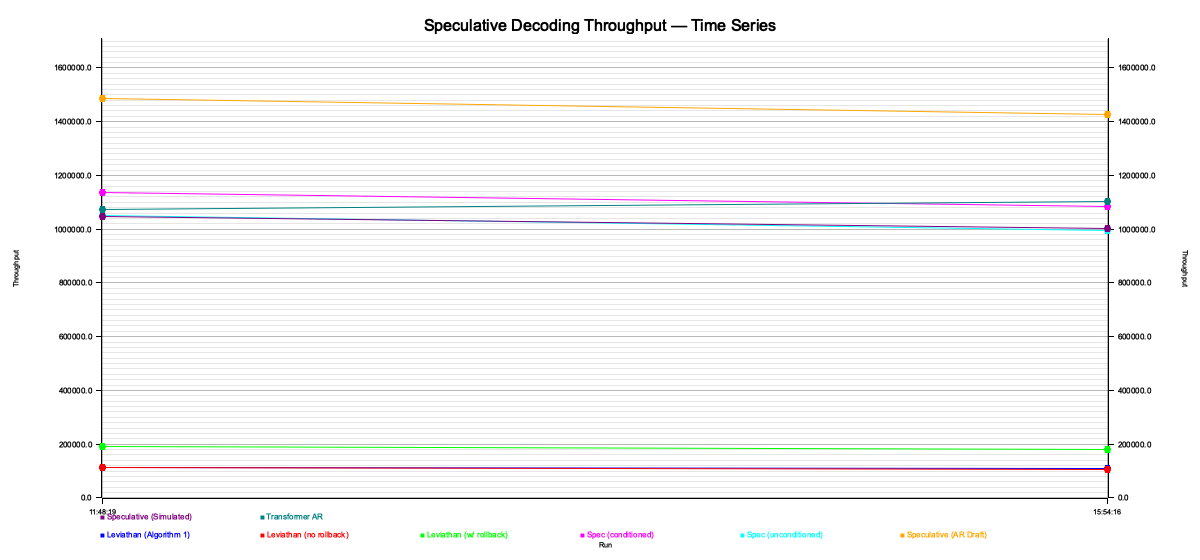
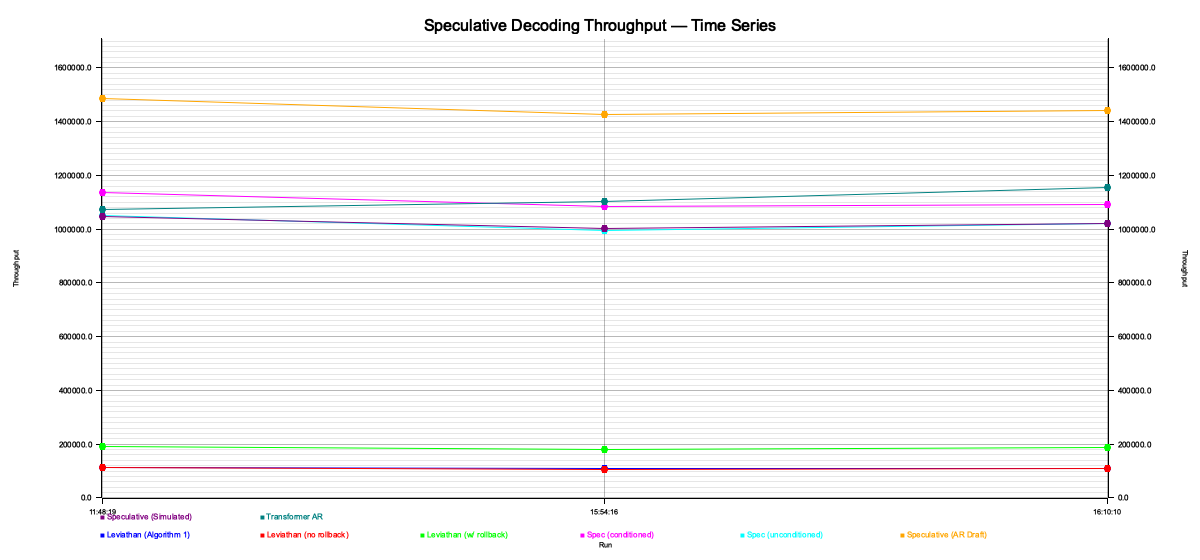
feat(bench): integrate TQ-3bit and PFlash block_select into main benchmark pipeline
Plan 043/044 benchmarks were isolated in tests/ with different CSV schemas,
never tracked in timeseries. Now they run with every cargo run --release:

- TQ-3bit store+dequant: 1.39M ops/s (compression ratio in avg_accept_len)
- PFlash block_select (1024 blocks): 1.13M ops/s

diff --git a/src/benchmark.rs b/src/benchmark.rs
@@ -1,13 +1,15 @@
+use crate::speculative::types::FlashPrefillConfig;
 use crate::speculative::{
     AttentionScorer, NoPruner, NoScreeningPruner, SimulatedVerifier, SpeculativeContext,
-    TreeBuilder, compress_prompt, dflash_predict_ar_with, dflash_predict_with,
+    TreeBuilder, block_select, compress_prompt, dflash_predict_ar_with, dflash_predict_with,
     extract_best_path_into, sample_from_distribution, speculative_step_verifier,
 };
 use crate::transformer::{
     ForwardContext, MultiLayerKVCache, PagedKVCache, RavenKVCache, TransformerWeights, forward,
     forward_paged, forward_raven, generate_into, raven_readout, raven_update, tokens_to_string,
 };
-use crate::types::{Config, Rng, softmax_scaled};
+use crate::turboquant::TurboQuantKVCache;
+use crate::types::{Config, Rng, kv_dim, softmax_scaled};
 use rayon::prelude::*;
 use std::io::Write;
 use std::time::Instant;
@@ -219,6 +221,14 @@ pub fn run_all(config: &Config) -> Vec<BenchResult> {
     // Raven recall accuracy after noise
     let recall_br = bench_raven_recall(config);
     results.push(recall_br);
+
+    // TQ-3bit store+dequant (Plan 043)
+    let tq_br = bench_turboquant_store_dequant(config);
+    results.push(tq_br);
+
+    // PFlash block_select (Plan 044)
+    let pflash_br = bench_pflash_block_select();
+    results.push(pflash_br);
 
     results
 }
@@ -1278,6 +1288,120 @@ pub fn bench_raven_recall(_config: &Config) -> BenchResult {
         time_per_step_us: elapsed.as_micros() as f64 / noise_steps as f64,
         avg_acceptance_len: recall_accuracy,
         color: (50, 205, 50),
+        category: BenchCategory::Infrastructure,
+    }
+}
+
+// ═══════════════════════════════════════════════════════════════
+// Plan 043: TurboQuant KV Cache Compression
+// ═══════════════════════════════════════════════════════════════
+
+/// Benchmark TQ-3bit store+dequant throughput.
+///
+/// Measures round-trip: store synthetic KV → dequantize back.
+/// Uses 3-bit as the sweet spot between compression and quality.
+pub fn bench_turboquant_store_dequant(config: &Config) -> BenchResult {
+    let kvd = kv_dim(config);
+    let n_positions = config.block_size;
+    let iters = 100u64;
+
+    // Synthetic KV data
+    let keys: Vec<Vec<f32>> = (0..n_positions)
+        .map(|p| (0..kvd).map(|i| ((i + p * 7) as f32 * 0.1).sin()).collect())
+        .collect();
+    let vals: Vec<Vec<f32>> = (0..n_positions)
+        .map(|p| {
+            (0..kvd)
+                .map(|i| ((i + p * 3) as f32 * 0.07).cos())
+                .collect()
+        })
+        .collect();
+
+    let mut cache = TurboQuantKVCache::new(config, 3, 3);
+
+    // Warmup
+    for _ in 0..10 {
+        cache.reset();
+        for pos in 0..n_positions {
+            cache.store_key(0, pos, &keys[pos]);
+            cache.store_value(0, pos, &vals[pos]);
+        }
+        for pos in 0..n_positions {
+            std::hint::black_box(cache.dequantize_key(0, pos));
+            std::hint::black_box(cache.dequantize_value(0, pos));
+        }
+    }
+
+    let start = Instant::now();
+    for _ in 0..iters {
+        cache.reset();
+        for pos in 0..n_positions {
+            cache.store_key(0, pos, &keys[pos]);
+            cache.store_value(0, pos, &vals[pos]);
+        }
+        for pos in 0..n_positions {
+            std::hint::black_box(cache.dequantize_key(0, pos));
+            std::hint::black_box(cache.dequantize_value(0, pos));
+        }
+    }
+    let elapsed = start.elapsed();
+
+    let total_tokens = n_positions as u64 * iters;
+    let throughput = total_tokens as f64 / elapsed.as_secs_f64();
+
+    BenchResult {
+        label: "TQ-3bit store+dequant".into(),
+        throughput,
+        time_per_step_us: elapsed.as_micros() as f64 / total_tokens as f64,
+        avg_acceptance_len: cache.compression_ratio(),
+        color: (148, 0, 211),
+        category: BenchCategory::Infrastructure,
+    }
+}
+
+// ═══════════════════════════════════════════════════════════════
+// Plan 044: PFlash Block-Sparse Speculative Prefill
+// ═══════════════════════════════════════════════════════════════
+
+/// Benchmark PFlash block_select throughput at 1024 blocks.
+///
+/// Measures the block selection kernel with sparse importance scores
+/// (simulates real attention: mostly hay, few needle peaks).
+pub fn bench_pflash_block_select() -> BenchResult {
+    let num_blocks = 1024;
+    let iters = 100_000u64;
+
+    // Sparse scores: mostly low, a few peaks (simulates real attention)
+    let scores: Vec<f32> = (0..num_blocks)
+        .map(|i| if i % 20 == 0 { 1.0f32 } else { 0.01f32 })
+        .collect();
+
+    let cfg = FlashPrefillConfig {
+        attention_sink: 1,
+        window: 1,
+        last_n_full: 0, // allow compression
+        ..Default::default()
+    };
+
+    // Warmup
+    for _ in 0..1000 {
+        std::hint::black_box(block_select(&scores, &cfg));
+    }
+
+    let start = Instant::now();
+    for _ in 0..iters {
+        std::hint::black_box(block_select(&scores, &cfg));
+    }
+    let elapsed = start.elapsed();
+
+    let throughput = iters as f64 / elapsed.as_secs_f64();
+
+    BenchResult {
+        label: "PFlash block_select (1024 blocks)".into(),
+        throughput,
+        time_per_step_us: elapsed.as_micros() as f64 / iters as f64,
+        avg_acceptance_len: 0.0,
+        color: (0, 128, 128),
         category: BenchCategory::Infrastructure,
     }
 }